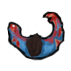
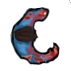
added new zombie sprites

diff --git a/Classes/crimson/GameFactory.cpp b/Classes/crimson/GameFactory.cpp
@@ -1,5 +1,6 @@
 #include "GameFactory.h"
 #include "../dxco/SpriteUtil.h"
+#include "../dxco/StringUtil.h"
 #include "../dxco/Animation.h"
 #include "Enemy.h"
 
@@ -33,9 +34,11 @@ Enemy* GameFactory::createEnemy(GameModel* model) {
 	}
 	}
 
+	std::string snumber = StringUtil::toString(rand() % 8 + 1);
+
 	//create sprite
 	cocos2d::CCSprite* enemySprite = dxco::SpriteUtil::create(
-			"citizenzombie1.png", x, y, 35, 35);
+			"citizenzombie" + snumber + ".png", x, y, 35, 35);
 
 	//new enemy
 	std::map<int, dxco::Animation*> animations;
@@ -43,9 +46,14 @@ Enemy* GameFactory::createEnemy(GameModel* model) {
 	std::vector<cocos2d::CCTexture2D*> texturesMuerto;
 	float frameTime = 0.18;
 
-
-	textures.push_back(dxco::SpriteUtil::createTexture("citizenzombie1.png"));
-	textures.push_back(dxco::SpriteUtil::createTexture("citizenzombie1-pega.png"));
+	//FIXME animate the rest of the zombies
+	if (snumber == "1") {
+		textures.push_back(dxco::SpriteUtil::createTexture("citizenzombie1.png"));
+		textures.push_back(dxco::SpriteUtil::createTexture("citizenzombie1-pega.png"));
+	} else {
+		textures.push_back(dxco::SpriteUtil::createTexture("citizenzombie" + snumber + ".png"));
+		textures.push_back(dxco::SpriteUtil::createTexture("citizenzombie" + snumber + ".png"));
+	}
 
 	dxco::Animation* animation = new Animation(textures, frameTime);
 

diff --git a/Classes/crimson/Enemy.cpp b/Classes/crimson/Enemy.cpp
@@ -11,7 +11,6 @@ Enemy::Enemy(GameModel* model, cocos2d::CCSprite* sprite,
 		std::map<int, Animation*>& animations) :
 		Item(sprite, animations) {
 	this->model = model;
-	this->muerto = false;
 	this->life = 20;
 	this->deadTime = 0;
 }
@@ -19,7 +18,7 @@ Enemy::Enemy(GameModel* model, cocos2d::CCSprite* sprite,
 void Enemy::update(float dt) {
 
 	Item::update(dt);
-	if (!this->muerto) {
+	if (this->isActive()) {
 		float distance = MathUtil::distance(this->getLocation(),
 				this->model->player->getLocation());
 
@@ -63,10 +62,6 @@ bool Enemy::shoot(Bullet* bullet) {
 			result = true;
 
 			this->life -= bullet->getDamage();
-
-			if (this->life < 0) {
-				this->muerto = true;
-			}
 		}
 	}
 
@@ -75,17 +70,13 @@ bool Enemy::shoot(Bullet* bullet) {
 
 void Enemy::hurt(float value) {
 	this->life -= value;
-
-	if (this->life < 0) {
-		this->muerto = true;
-	}
 }
 
 float Enemy::getWidth() {
 	return Item::getWidth() / 2;
 }
 bool Enemy::isActive() {
-	return !this->muerto;
+	return this->life > 0;
 }
 
 } /* namespace dxco */

diff --git a/Classes/crimson/GameModel.cpp b/Classes/crimson/GameModel.cpp
@@ -50,7 +50,7 @@ void GameModel::update(float dt) {
 		for (int j = 0; j < this->enemies.size(); j++) {
 			Enemy* enemy = this->enemies[j];
 
-			if (!enemy->muerto) {
+			if (enemy->isActive()) {
 				bool shooted = enemy->shoot(bullet);
 
 				if (shooted) {

diff --git a/Classes/crimson/Enemy.h b/Classes/crimson/Enemy.h
@@ -20,7 +20,6 @@ public:
 
 	bool shoot(Bullet* bullet);
 	GameModel* model;
-	bool muerto;
 	float life;
 	float deadTime;
 
